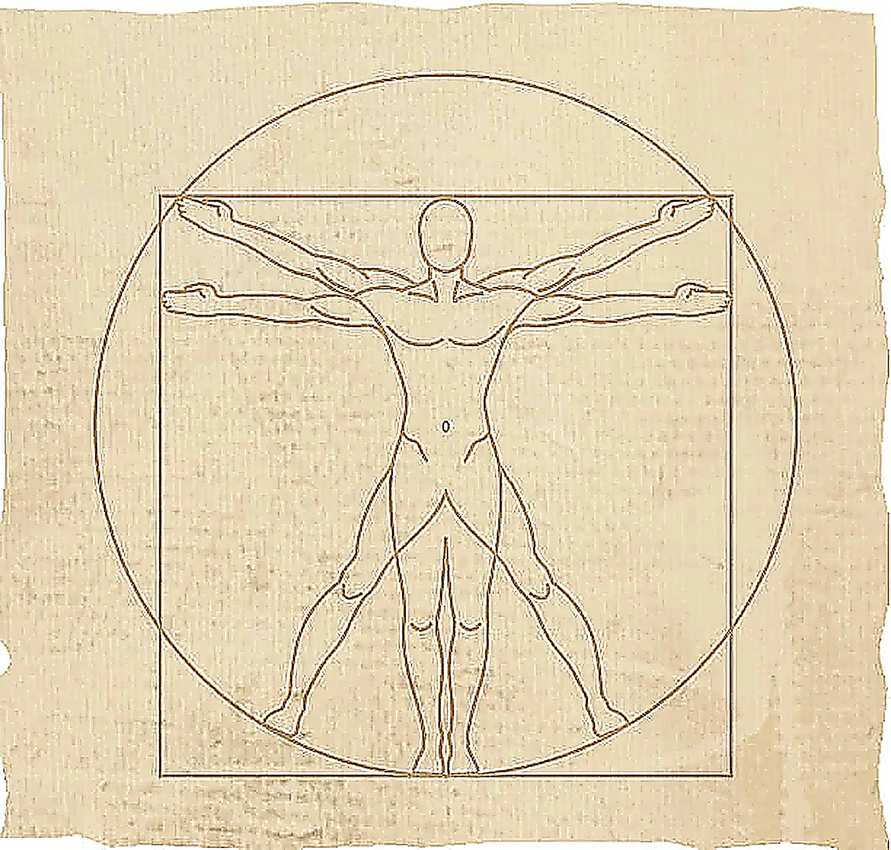
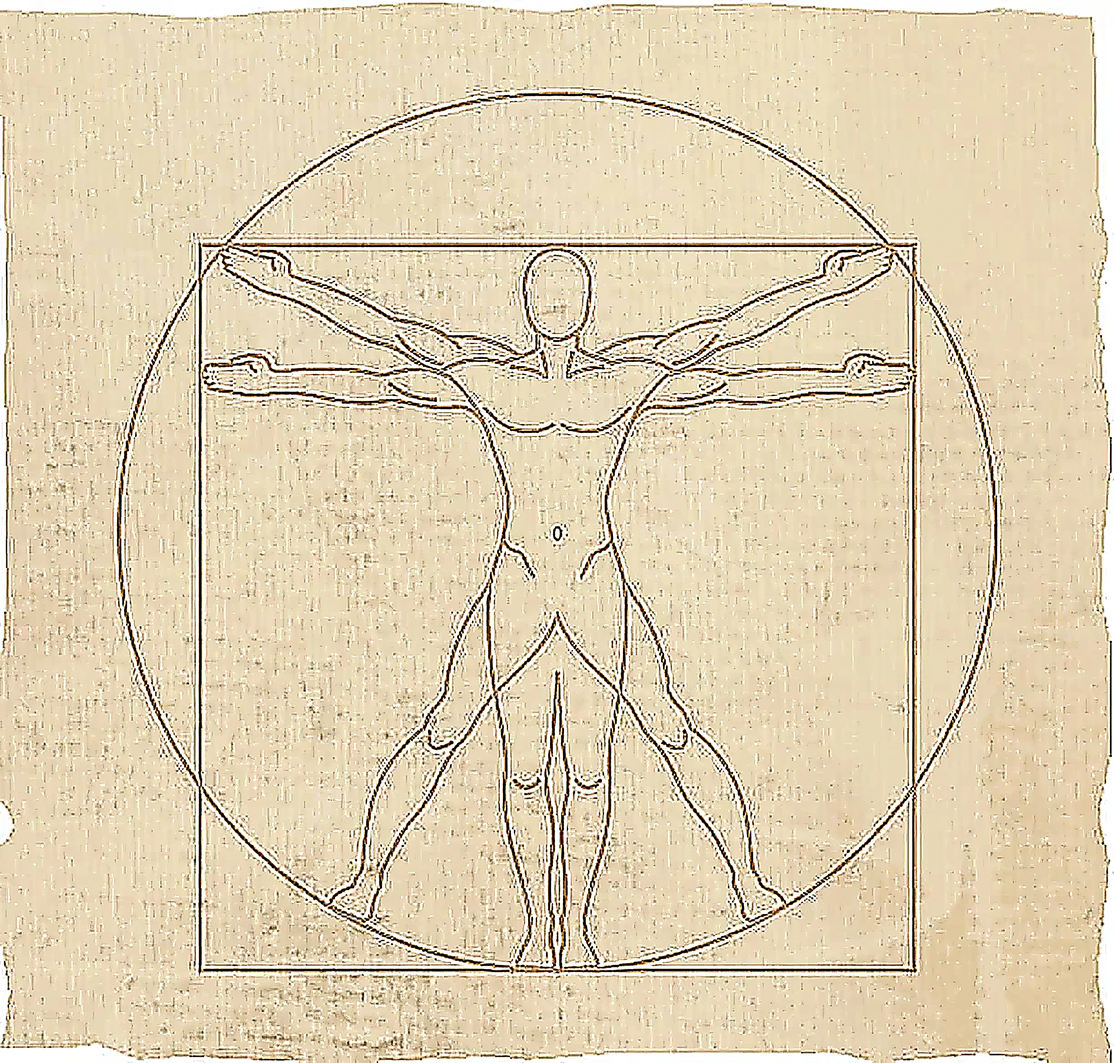
Fix label legibility, add body-part subtitles, bigger tags, sharper figure
- Hotspot labels, title, byline, hint, marginalia and signature now carry
  a soft light halo (text-shadow) so dark ink text stays readable over the
  darker patches of the vignette/stain background instead of going
  illegible in spots.
- Each hotspot label now shows its literal body-part landmark underneath
  in smaller, lighter uppercase type (About/Head, Fetch/Hand, Hope/Chest,
  etc).
- Hotspot label font size increased further (0.8rem -> 0.98rem desktop,
  0.66rem -> 0.78rem mobile); leader-to-label offset corrected to match
  the shortened leader lines from the last pass (was still using the old
  longer offset).
- Vitruvian image upscaled again with stronger sharpening (now
  3097x2956) for quality at its current large display size.
- Re-verified no overlaps at desktop, short-height, and mobile widths with
  the now-two-line labels, all 9 cards still open, no scroll.

diff --git a/index.html b/index.html
@@ -24,7 +24,7 @@
 <link rel="preconnect" href="https://fonts.googleapis.com">
 <link rel="preconnect" href="https://fonts.gstatic.com" crossorigin>
 <link href="https://fonts.googleapis.com/css2?family=Fraunces:ital,wght@0,380;0,460;0,560;0,680;1,460;1,560&family=Literata:ital,opsz,wght@0,18..144,400;0,18..144,500;0,18..144,600;1,18..144,400&family=Courier+Prime:ital,wght@0,400;0,700;1,400&family=Caveat:wght@500;600&display=swap" rel="stylesheet">
-<link rel="stylesheet" href="css/style.css?v=114">
+<link rel="stylesheet" href="css/style.css?v=115">
 
 <script type="application/ld+json">
 {
@@ -107,31 +107,31 @@
     <span class="figure-highlight" data-for="contact" style="left:65.8%; top:85.2%; width:8%; height:6%;"></span>
 
     <button type="button" class="figure-hotspot dir-right" data-card="about" style="left:52.3%; top:27.8%;">
-      <span class="fh-dot"></span><span class="fh-leader"></span><span class="fh-label">About</span>
+      <span class="fh-dot"></span><span class="fh-leader"></span><span class="fh-label">About<em>Head</em></span>
     </button>
     <button type="button" class="figure-hotspot dir-left" data-card="awards" style="left:52.3%; top:20%;">
-      <span class="fh-dot"></span><span class="fh-leader"></span><span class="fh-label">Awards</span>
+      <span class="fh-dot"></span><span class="fh-leader"></span><span class="fh-label">Awards<em>Crown</em></span>
     </button>
     <button type="button" class="figure-hotspot dir-right" data-card="fetch" style="left:77.6%; top:26.5%;">
-      <span class="fh-dot"></span><span class="fh-leader"></span><span class="fh-label">Fetch</span>
+      <span class="fh-dot"></span><span class="fh-leader"></span><span class="fh-label">Fetch<em>Hand</em></span>
     </button>
     <button type="button" class="figure-hotspot dir-left" data-card="street-sweeper" style="left:23.7%; top:27.8%;">
-      <span class="fh-dot"></span><span class="fh-leader"></span><span class="fh-label">Street Sweeper</span>
+      <span class="fh-dot"></span><span class="fh-leader"></span><span class="fh-label">Street Sweeper<em>Hand</em></span>
     </button>
     <button type="button" class="figure-hotspot dir-left" data-card="hope" style="left:52.3%; top:38.5%;">
-      <span class="fh-dot"></span><span class="fh-leader"></span><span class="fh-label">Hope</span>
+      <span class="fh-dot"></span><span class="fh-leader"></span><span class="fh-label">Hope<em>Chest</em></span>
     </button>
     <button type="button" class="figure-hotspot dir-left" data-card="arm" style="left:52.3%; top:59.9%;">
-      <span class="fh-dot"></span><span class="fh-leader"></span><span class="fh-label">Robotic Arm</span>
+      <span class="fh-dot"></span><span class="fh-leader"></span><span class="fh-label">Robotic Arm<em>Waist</em></span>
     </button>
     <button type="button" class="figure-hotspot dir-right" data-card="morebuilds" style="left:52.3%; top:51.4%;">
-      <span class="fh-dot"></span><span class="fh-leader"></span><span class="fh-label">More Builds</span>
+      <span class="fh-dot"></span><span class="fh-leader"></span><span class="fh-label">More Builds<em>Navel</em></span>
     </button>
     <button type="button" class="figure-hotspot dir-down" data-card="skills" style="left:31.9%; top:85.2%;">
-      <span class="fh-dot"></span><span class="fh-leader"></span><span class="fh-label">Skills</span>
+      <span class="fh-dot"></span><span class="fh-leader"></span><span class="fh-label">Skills<em>Foot</em></span>
     </button>
     <button type="button" class="figure-hotspot dir-down" data-card="contact" style="left:65.8%; top:85.2%;">
-      <span class="fh-dot"></span><span class="fh-leader"></span><span class="fh-label">Contact</span>
+      <span class="fh-dot"></span><span class="fh-leader"></span><span class="fh-label">Contact<em>Foot</em></span>
     </button>
   </div>
 

diff --git a/css/style.css b/css/style.css
@@ -229,6 +229,7 @@ html, body { height: 100%; overflow: hidden; }
   color: var(--accent-dim);
   opacity: 0.7;
   pointer-events: none;
+  text-shadow: 0 0 5px var(--bg), 0 0 8px var(--bg);
 }
 .m1 { top: 1.1rem; left: 1.3rem; font-size: 1rem; transform: rotate(-3deg); max-width: 11rem; line-height: 1.15; }
 .m2 { bottom: 3.6rem; left: 1.4rem; font-size: 0.95rem; transform: rotate(2deg); }
@@ -262,6 +263,7 @@ html, body { height: 100%; overflow: hidden; }
   margin: 0 0 0.55rem;
   color: var(--text);
   letter-spacing: -0.01em;
+  text-shadow: 0 0 6px var(--bg), 0 0 10px var(--bg);
 }
 .folio-byline {
   font-family: var(--font-mono);
@@ -270,6 +272,7 @@ html, body { height: 100%; overflow: hidden; }
   color: var(--text-dim);
   margin: 0;
   max-width: 46rem;
+  text-shadow: 0 0 5px var(--bg), 0 0 9px var(--bg);
 }
 
 .folio-signature {
@@ -283,6 +286,7 @@ html, body { height: 100%; overflow: hidden; }
   opacity: 0.82;
   transform: rotate(-3deg);
   pointer-events: none;
+  text-shadow: 0 0 6px var(--bg), 0 0 10px var(--bg);
 }
 
 .figure-wrap {
@@ -320,6 +324,7 @@ html, body { height: 100%; overflow: hidden; }
   color: var(--text-faint);
   text-align: center;
   margin: 0.3rem 0 0;
+  text-shadow: 0 0 5px var(--bg), 0 0 9px var(--bg);
 }
 
 .figure-highlight {
@@ -388,18 +393,31 @@ html, body { height: 100%; overflow: hidden; }
 .dir-down .fh-leader { top: 0; left: 0; width: 1.4px; height: 20px; }
 .fh-label {
   position: absolute;
+  display: flex;
+  flex-direction: column;
   font-family: var(--font-mono);
-  font-size: 0.8rem;
+  font-size: 0.98rem;
   font-weight: 700;
   letter-spacing: 0.03em;
   color: var(--text);
   white-space: nowrap;
   transition: color 0.2s ease;
+  /* a light halo so the dark ink text stays legible over darker patches of the page */
+  text-shadow: 0 0 5px var(--bg), 0 0 9px var(--bg), 0 1px 2px rgba(255, 255, 255, 0.6);
 }
-.dir-right .fh-label { left: 44px; top: 50%; transform: translateY(-50%); }
-.dir-left .fh-label { right: 44px; top: 50%; transform: translateY(-50%); text-align: right; }
-.dir-up .fh-label { bottom: 40px; left: 50%; transform: translateX(-50%); text-align: center; }
-.dir-down .fh-label { top: 40px; left: 50%; transform: translateX(-50%); text-align: center; }
+.fh-label em {
+  font-style: normal;
+  font-weight: 600;
+  font-size: 0.6em;
+  letter-spacing: 0.08em;
+  text-transform: uppercase;
+  color: var(--text-faint);
+  margin-top: 0.1em;
+}
+.dir-right .fh-label { left: 28px; top: 50%; transform: translateY(-50%); align-items: flex-start; }
+.dir-left .fh-label { right: 28px; top: 50%; transform: translateY(-50%); text-align: right; align-items: flex-end; }
+.dir-up .fh-label { bottom: 26px; left: 50%; transform: translateX(-50%); text-align: center; align-items: center; }
+.dir-down .fh-label { top: 26px; left: 50%; transform: translateX(-50%); text-align: center; align-items: center; }
 
 .figure-hotspot:hover .fh-dot,
 .figure-hotspot:focus-visible .fh-dot { transform: translate(-50%, -50%) scale(1.5); }
@@ -413,13 +431,13 @@ html, body { height: 100%; overflow: hidden; }
 
 @media (max-width: 900px) {
   .gate { padding: 0.7rem 0.8rem 2.2rem; }
-  .fh-label { font-size: 0.66rem; }
+  .fh-label { font-size: 0.78rem; }
   .dir-right .fh-leader, .dir-left .fh-leader { width: 26px; }
   .dir-right .fh-label { left: 30px; }
   .dir-left .fh-label { right: 30px; }
   .dir-up .fh-leader, .dir-down .fh-leader { height: 22px; }
-  .dir-up .fh-label { bottom: 26px; }
-  .dir-down .fh-label { top: 26px; }
+  .dir-up .fh-label { bottom: 28px; }
+  .dir-down .fh-label { top: 28px; }
   .fh-dot::before { width: 28px; height: 28px; }
   .scribble, .marginalia, .folio-signature { display: none; }
 }
